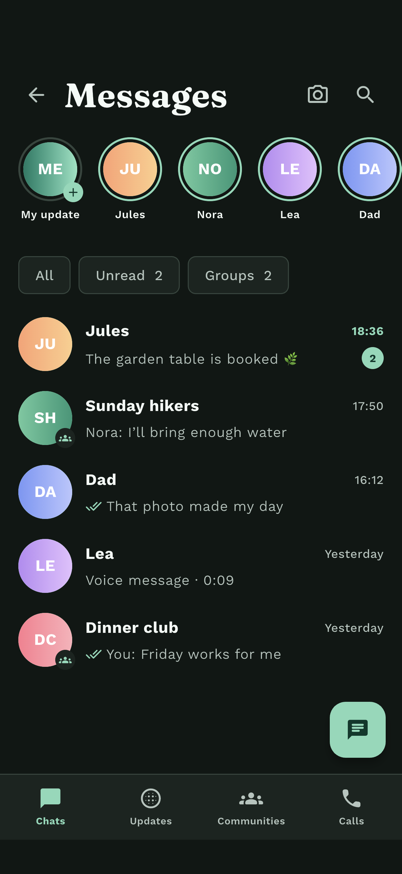
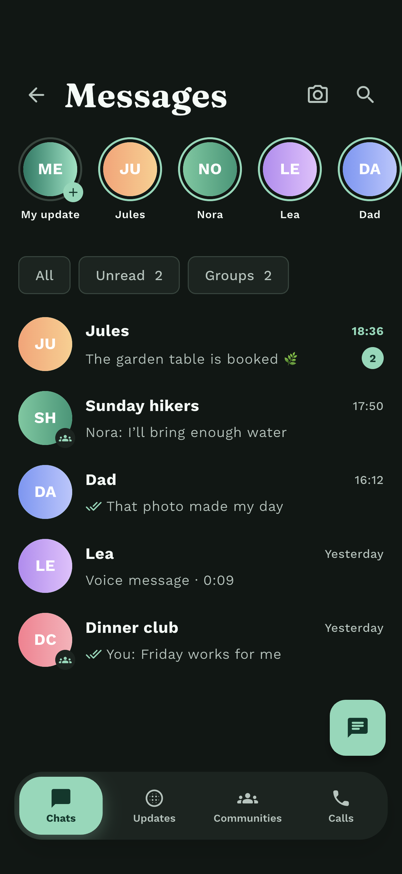
Redesign private messenger navigation

diff --git a/lib/features/templates/private_messenger/private_messenger_home_screen.dart b/lib/features/templates/private_messenger/private_messenger_home_screen.dart
@@ -95,40 +95,108 @@ class _PrivateNavigation extends StatelessWidget {
     ];
     return SafeArea(
       top: false,
-      child: DecoratedBox(
-        decoration: BoxDecoration(
-          color: colors.surface,
-          border: Border(top: BorderSide(color: colors.outlineVariant)),
-        ),
-        child: SizedBox(
-          height: 66,
-          child: Row(
-            children: <Widget>[
-              for (var index = 0; index < items.length; index++)
-                Expanded(
-                  child: InkWell(
-                    onTap: () => onSelected(index),
-                    child: Column(
-                      mainAxisAlignment: MainAxisAlignment.center,
-                      children: <Widget>[
-                        Icon(
-                          items[index].icon,
-                          color: selectedIndex == index ? colors.primary : colors.onSurfaceVariant,
-                        ),
-                        const SizedBox(height: 3),
-                        Text(
-                          items[index].label,
-                          style: TextStyle(
-                            color: selectedIndex == index ? colors.primary : colors.onSurfaceVariant,
-                            fontSize: 10,
-                            fontWeight: selectedIndex == index ? FontWeight.w800 : FontWeight.w600,
-                          ),
-                        ),
-                      ],
-                    ),
-                  ),
-                ),
+      minimum: const EdgeInsets.only(bottom: 10),
+      child: Padding(
+        padding: const EdgeInsets.symmetric(horizontal: 14),
+        child: Container(
+          decoration: BoxDecoration(
+            color: colors.surface,
+            borderRadius: const BorderRadius.all(Radius.circular(28)),
+            boxShadow: <BoxShadow>[
+              BoxShadow(
+                color: colors.shadow.withValues(alpha: 0.18),
+                blurRadius: 24,
+                spreadRadius: -7,
+                offset: const Offset(0, 10),
+              ),
             ],
+          ),
+          child: ClipRRect(
+            borderRadius: const BorderRadius.all(Radius.circular(28)),
+            child: Material(
+              color: Colors.transparent,
+              child: SizedBox(
+                height: 68,
+                child: Row(
+                  children: <Widget>[
+                    for (var index = 0; index < items.length; index++)
+                      _PrivateNavigationItem(
+                        label: items[index].label,
+                        icon: items[index].icon,
+                        selected: selectedIndex == index,
+                        onTap: () => onSelected(index),
+                      ),
+                  ],
+                ),
+              ),
+            ),
+          ),
+        ),
+      ),
+    );
+  }
+}
+
+class _PrivateNavigationItem extends StatelessWidget {
+  const _PrivateNavigationItem({required this.label, required this.icon, required this.selected, required this.onTap});
+
+  final String label;
+  final IconData icon;
+  final bool selected;
+  final VoidCallback onTap;
+
+  @override
+  Widget build(BuildContext context) {
+    final colors = Theme.of(context).colorScheme;
+    return Expanded(
+      child: Semantics(
+        label: label,
+        selected: selected,
+        button: true,
+        onTap: onTap,
+        excludeSemantics: true,
+        child: InkWell(
+          onTap: onTap,
+          borderRadius: const BorderRadius.all(Radius.circular(22)),
+          child: AnimatedContainer(
+            duration: const Duration(milliseconds: 220),
+            curve: Curves.easeOutCubic,
+            margin: const EdgeInsets.all(5),
+            decoration: BoxDecoration(
+              color: selected ? colors.primary : Colors.transparent,
+              borderRadius: const BorderRadius.all(Radius.circular(22)),
+              boxShadow: selected
+                  ? <BoxShadow>[
+                      BoxShadow(
+                        color: colors.primary.withValues(alpha: 0.28),
+                        blurRadius: 14,
+                        offset: const Offset(0, 5),
+                      ),
+                    ]
+                  : null,
+            ),
+            child: Column(
+              mainAxisAlignment: MainAxisAlignment.center,
+              children: <Widget>[
+                AnimatedScale(
+                  duration: const Duration(milliseconds: 220),
+                  curve: Curves.easeOutBack,
+                  scale: selected ? 1.08 : 1,
+                  child: Icon(icon, size: 21, color: selected ? colors.onPrimary : colors.onSurfaceVariant),
+                ),
+                const SizedBox(height: 3),
+                AnimatedDefaultTextStyle(
+                  duration: const Duration(milliseconds: 180),
+                  style: TextStyle(
+                    color: selected ? colors.onPrimary : colors.onSurfaceVariant,
+                    fontFamily: PrivateMessengerTheme.fontName,
+                    fontSize: 10.5,
+                    fontWeight: selected ? FontWeight.w800 : FontWeight.w600,
+                  ),
+                  child: Text(label, maxLines: 1, overflow: TextOverflow.fade, softWrap: false),
+                ),
+              ],
+            ),
           ),
         ),
       ),

diff --git a/integration_test/app_smoke_test.dart b/integration_test/app_smoke_test.dart
@@ -135,6 +135,17 @@ void main() {
     await _finishAnimations(tester);
     await _openGalleryTemplate(tester, 'Private Messenger');
 
+    for (final destination in <({String label, String content})>[
+      (label: 'Updates', content: 'Status updates'),
+      (label: 'Communities', content: 'Neighbourhood Garden'),
+      (label: 'Calls', content: 'Group video'),
+      (label: 'Chats', content: 'The garden table is booked 🌿'),
+    ]) {
+      await tester.tap(find.bySemanticsLabel(destination.label).last);
+      await _finishAnimations(tester);
+      expect(find.textContaining(destination.content), findsWidgets);
+    }
+
     await tester.tap(find.byType(PrivateConversationTile).first);
     await _finishAnimations(tester);
     await tester.enterText(find.byKey(const ValueKey<String>('private-chat-composer')), 'The terrace sounds perfect.');
@@ -181,6 +192,9 @@ Future<void> _selectAppearance(WidgetTester tester, String label) async {
 }
 
 Future<void> _finishAnimations(WidgetTester tester) async {
-  await tester.pump();
-  await tester.pump(const Duration(seconds: 3));
+  for (var frame = 0; frame < 40; frame++) {
+    await tester.pump(const Duration(milliseconds: 25));
+  }
+  await tester.pump(const Duration(seconds: 2));
+  await tester.pump(const Duration(milliseconds: 16));
 }

diff --git a/test/private_messenger_test.dart b/test/private_messenger_test.dart
@@ -48,6 +48,7 @@ void main() {
   });
 
   testWidgets('private messenger switches between its main destinations', (WidgetTester tester) async {
+    final semantics = tester.ensureSemantics();
     tester.view
       ..devicePixelRatio = 1
       ..physicalSize = const Size(430, 932);
@@ -62,11 +63,23 @@ void main() {
       (label: 'Calls', content: 'Group video'),
       (label: 'Chats', content: 'Jules'),
     ]) {
-      await tester.tap(find.text(destination.label));
+      final destinationTab = find.bySemanticsLabel(destination.label).last;
+      await tester.tap(destinationTab);
       await tester.pumpAndSettle();
       expect(find.textContaining(destination.content), findsWidgets);
+      expect(
+        tester.getSemantics(destinationTab),
+        matchesSemantics(
+          label: destination.label,
+          hasSelectedState: true,
+          isSelected: true,
+          isButton: true,
+          hasTapAction: true,
+        ),
+      );
       expect(tester.takeException(), isNull);
     }
+    semantics.dispose();
   });
 
   testWidgets('private messenger follows its requested dark appearance', (WidgetTester tester) async {
